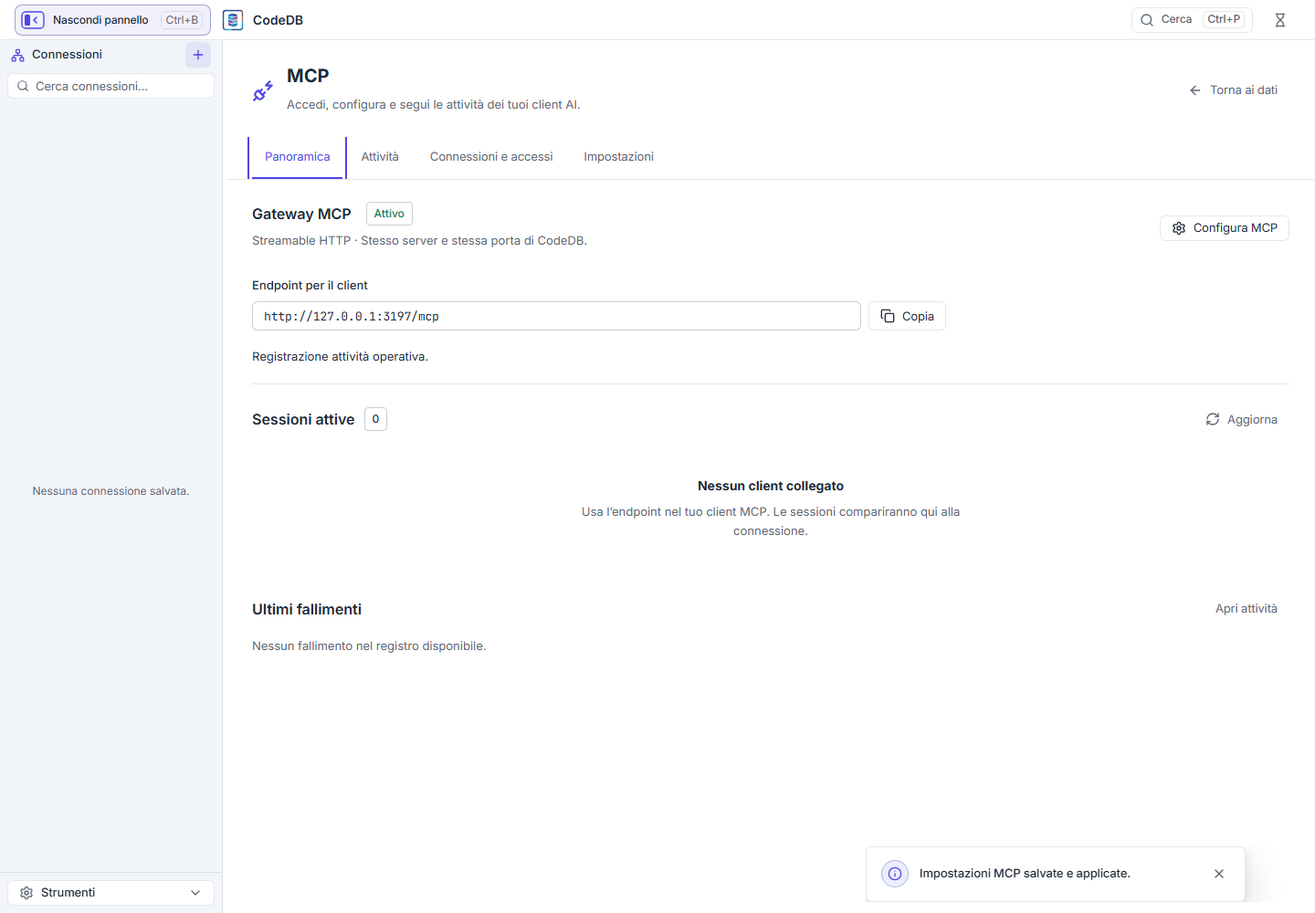
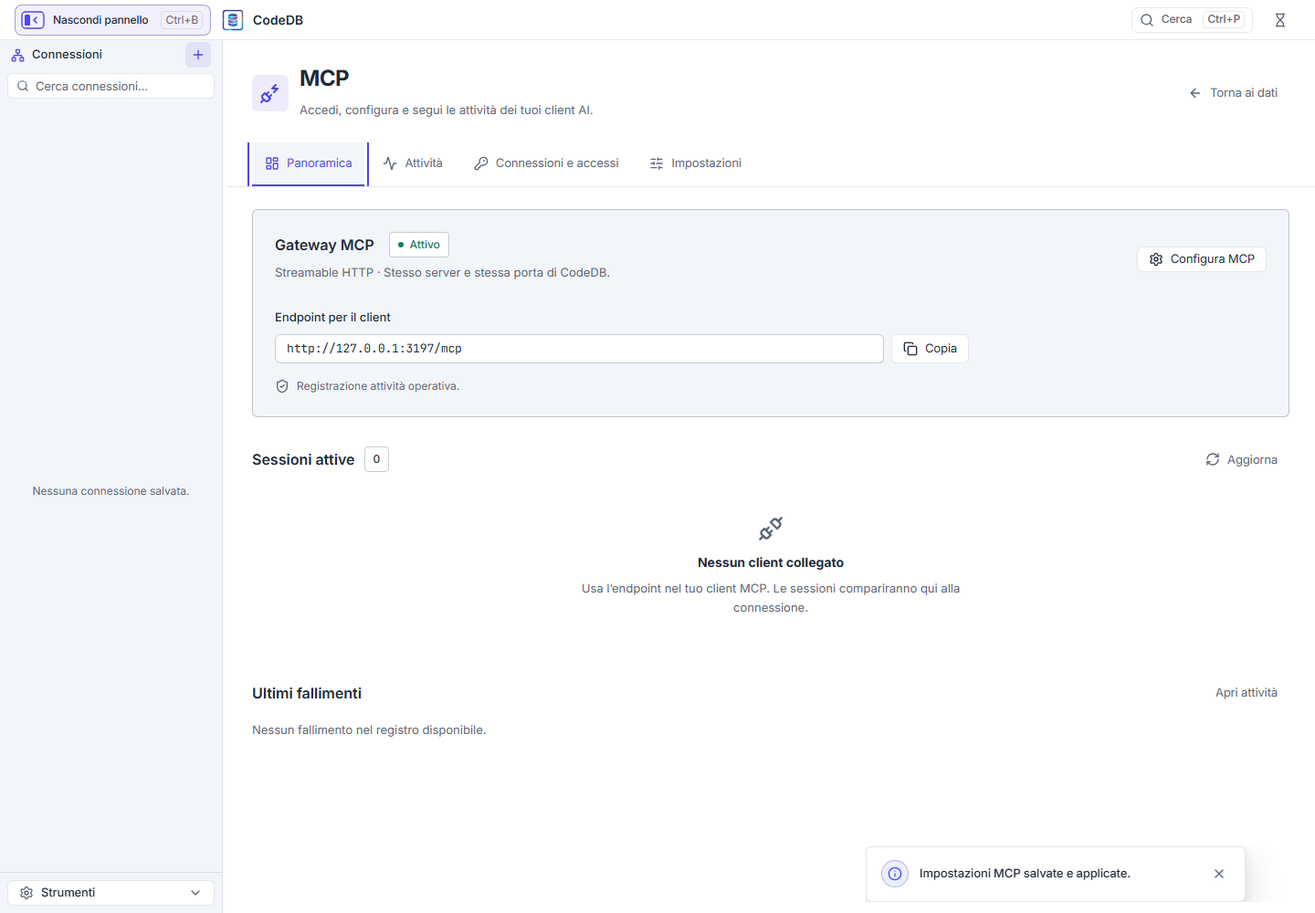
Rifinisce interfaccia MCP, stati e navigazione responsive

diff --git a/public/js/mcp-panel.js b/public/js/mcp-panel.js
@@ -44,7 +44,7 @@ const client = value => typeof value === 'object' && value ? [value.name, value.
 const pretty = value => typeof value === 'string' ? value : JSON.stringify(value, null, 2) ?? 'Non disponibile';
 const permissionsText = value => Object.entries({ read: 'lettura', write: 'scrittura', ddl: 'modifiche alla struttura' }).filter(([key]) => value[key]).map(([,label]) => label).join(', ') || 'nessuna operazione consentita';
 const labelStatus = value => STATI[value] || value || STATI.unknown;
-const badge = value => `<span class="mcp-status mcp-status-${esc(Object.hasOwn(STATI, value) ? value : 'unknown')}">${esc(labelStatus(value))}</span>`;
+const badge = value => `<span class="mcp-status mcp-status-${esc(Object.hasOwn(STATI, value) ? value : 'unknown')}"><span class="mcp-status-dot" aria-hidden="true"></span>${esc(labelStatus(value))}</span>`;
 function paint(node = panel) { mountArcControls(node); refreshLucideIcons(node); }
 function error(err) { q('#mcp-message').textContent = err?.message || String(err); q('#mcp-message').hidden = false; }
 function clearError() { q('#mcp-message').hidden = true; q('#mcp-message').textContent = ''; }
@@ -63,12 +63,13 @@ export function initMcpPanel() {
   panel.id = 'mcp-panel'; panel.hidden = true; panel.setAttribute('aria-labelledby', 'mcp-title');
   panel.innerHTML = `
     <header class="mcp-header"><div class="mcp-heading"><i data-lucide="plug-zap" aria-hidden="true"></i><div><h1 id="mcp-title" tabindex="-1">MCP</h1><p>Accedi, configura e segui le attività dei tuoi client AI.</p></div></div><button type="button" data-action="close" class="ghost"><i data-lucide="arrow-left"></i> Torna ai dati</button></header>
-    <nav class="mcp-tabs" role="tablist" aria-label="Sezioni MCP">${[['overview','Panoramica'],['activity','Attività'],['access','Connessioni e accessi'],['settings','Impostazioni']].map(([id,label])=>`<button type="button" id="mcp-tab-${id}" role="tab" aria-controls="mcp-pane-${id}" aria-selected="${id === pane}" tabindex="${id === pane ? 0 : -1}" data-pane="${id}">${label}</button>`).join('')}</nav>
+    <nav class="mcp-tabs" role="tablist" aria-label="Sezioni MCP">${[['overview','Panoramica','layout-dashboard'],['activity','Attività','activity'],['access','Connessioni e accessi','key-round'],['settings','Impostazioni','sliders-horizontal']].map(([id,label,icon])=>`<button type="button" id="mcp-tab-${id}" role="tab" aria-controls="mcp-pane-${id}" aria-selected="${id === pane}" tabindex="${id === pane ? 0 : -1}" data-pane="${id}"><i data-lucide="${icon}" aria-hidden="true"></i>${label}</button>`).join('')}</nav>
     <div id="mcp-message" class="mcp-message" role="alert" hidden></div>
     <p id="mcp-operation-status" class="mcp-operation-status" role="status" hidden>Operazione in corso…</p>
     <div class="mcp-content">
       <section id="mcp-pane-overview" role="tabpanel" aria-labelledby="mcp-tab-overview"><div id="mcp-overview-content" class="mcp-section-body"></div></section>
       <section id="mcp-pane-activity" role="tabpanel" aria-labelledby="mcp-tab-activity" hidden>
+        <div class="mcp-activity-heading"><div><h2>Registro attività</h2><p class="mcp-muted">Ogni richiesta, dal primo contatto all’esito.</p></div><span id="mcp-live-state" class="mcp-live-state"><span class="mcp-status-dot" aria-hidden="true"></span>Aggiornamento attivo</span></div>
         <form id="mcp-filters" class="mcp-filters">
           <label class="mcp-search">Cerca<input name="search" type="search" placeholder="Azione, bersaglio, dettaglio…" autocomplete="off"></label>
           <label>Dal giorno<input id="mcp-filter-from" name="from" type="date" class="arc-inline-date-model"></label><label>Al giorno<input id="mcp-filter-to" name="to" type="date" class="arc-inline-date-model"></label>
@@ -77,7 +78,7 @@ export function initMcpPanel() {
           <label>Tool<input name="tool" placeholder="Es. execute_query" autocomplete="off"></label><label>Connessione<input name="connection" autocomplete="off"></label><label>Database<input name="db" autocomplete="off"></label><label>Autore<input name="user" autocomplete="off"></label>
           <label>Categoria<select name="category"><option value="">Tutte</option>${Object.entries(CATEGORIE).map(([v,t])=>`<option value="${v}">${t}</option>`).join('')}</select></label></div></details>
         </form>
-        <div class="mcp-activity-toolbar"><div><button type="button" data-action="errors">Fallimenti</button><button type="button" data-action="writes">Scritture</button><button type="button" data-action="reset-filters" class="ghost">Azzera filtri</button></div><div><button type="button" data-action="live" aria-pressed="true"><i data-lucide="pause"></i> Pausa aggiornamenti</button><button type="button" data-action="refresh-activity" aria-label="Aggiorna attività"><i data-lucide="refresh-cw"></i></button><button type="button" data-action="export-json">JSON</button><button type="button" data-action="export-csv">CSV</button></div></div>
+        <div class="mcp-activity-toolbar"><div><button type="button" data-action="errors" aria-pressed="false"><i data-lucide="circle-alert" aria-hidden="true"></i>Fallimenti</button><button type="button" data-action="writes" aria-pressed="false"><i data-lucide="pencil-line" aria-hidden="true"></i>Scritture</button><button type="button" data-action="reset-filters" class="ghost">Azzera filtri</button></div><div><button type="button" data-action="live" aria-pressed="true"><i data-lucide="pause"></i> Pausa aggiornamenti</button><button type="button" data-action="refresh-activity" aria-label="Aggiorna attività"><i data-lucide="refresh-cw"></i></button><button type="button" data-action="export-json" aria-label="Esporta attività in JSON">JSON</button><button type="button" data-action="export-csv" aria-label="Esporta attività in CSV">CSV</button></div></div>
         <button type="button" id="mcp-new-activity" data-action="refresh-activity" class="mcp-new-activity" hidden>Nuove attività disponibili · Aggiorna elenco</button>
         <p id="mcp-activity-note" class="mcp-muted" role="status"></p>
         <div class="mcp-activity-layout"><div class="mcp-activity-list" id="mcp-activity-list" aria-label="Elenco attività"></div><aside id="mcp-detail" class="mcp-detail" aria-label="Dettaglio attività" hidden></aside></div>
@@ -148,11 +149,11 @@ function renderOverview() {
   const names = { active: 'Attivo', draining: 'Disattivazione in corso', disabled: 'Disattivato' };
   const sessions = status.sessions || [];
   q('#mcp-overview-content').innerHTML = `
-    <div class="mcp-service-line"><div><h2>Gateway MCP <span class="mcp-service-state" data-state="${esc(status.state)}">${esc(names[status.state] || 'Non disponibile')}</span></h2><p class="mcp-muted">${status.state === 'draining' ? 'Le operazioni avviate stanno terminando. Le nuove richieste sono sospese.' : 'Streamable HTTP · Stesso server e stessa porta di CodeDB.'}</p></div><button type="button" data-pane="settings"><i data-lucide="settings"></i> Configura MCP</button></div>
+    <div class="mcp-service-surface"><div class="mcp-service-line"><div><h2>Gateway MCP <span class="mcp-service-state" data-state="${esc(status.state)}"><span class="mcp-status-dot" aria-hidden="true"></span>${esc(names[status.state] || 'Non disponibile')}</span></h2><p class="mcp-muted">${status.state === 'draining' ? 'Le operazioni avviate stanno terminando. Le nuove richieste sono sospese.' : 'Streamable HTTP · Stesso server e stessa porta di CodeDB.'}</p></div><button type="button" data-pane="settings"><i data-lucide="settings"></i> Configura MCP</button></div>
     <div class="mcp-endpoint"><label for="mcp-endpoint-value">Endpoint per il client</label><div><input type="text" readonly id="mcp-endpoint-value" value="${esc(endpoint())}"><button type="button" data-action="copy-endpoint"><i data-lucide="copy"></i> Copia</button></div></div>
-    <p class="mcp-audit-health ${status.auditHealth?.ok === false ? 'mcp-danger' : ''}">${status.auditHealth?.ok === false ? `Registrazione attività non disponibile: ${esc(status.auditHealth.lastError || 'errore di scrittura del registro')}. Lo storico può essere incompleto.` : 'Registrazione attività operativa.'} ${status.auditHealth?.pending ? `${Number(status.auditHealth.pending)} eventi in salvataggio.` : ''}</p>
+    <p class="mcp-audit-health ${status.auditHealth?.ok === false ? 'mcp-danger' : ''}"><i data-lucide="${status.auditHealth?.ok === false ? 'shield-alert' : 'shield-check'}" aria-hidden="true"></i><span>${status.auditHealth?.ok === false ? `Registrazione attività non disponibile: ${esc(status.auditHealth.lastError || 'errore di scrittura del registro')}. Lo storico può essere incompleto.` : 'Registrazione attività operativa.'} ${status.auditHealth?.pending ? `${Number(status.auditHealth.pending)} eventi in salvataggio.` : ''}</span></p></div>
     <div class="mcp-section-title"><h2>Sessioni attive <span class="mcp-count">${sessions.length}</span></h2><button type="button" data-action="refresh-status" class="ghost"><i data-lucide="refresh-cw"></i> Aggiorna</button></div>
-    ${sessions.length ? `<div class="mcp-session-list">${sessions.map(s=>`<article class="mcp-session"><div><strong>${esc(client(s.client))}</strong><p>${esc(s.user || 'Utente locale')} · ${Number(s.activeRequests || 0)} operazioni in corso</p><p class="mcp-muted">${esc((s.connections || []).map(c=>`${c.name}${c.dbType ? ` (${c.dbType})` : ''}`).join(', ') || 'Nessuna connessione DB aperta')}</p><p class="mcp-muted">Ultima attività: ${esc(date(s.lastActivity))}</p><code title="Identificativo sessione">${esc(s.id)}</code></div>${s.canClose === false ? '' : `<button type="button" data-action="close-session" data-id="${esc(s.id)}">Chiudi sessione</button>`}</article>`).join('')}</div>` : '<div class="mcp-empty"><h3>Nessun client collegato</h3><p>Usa l’endpoint nel tuo client MCP. Le sessioni compariranno qui alla connessione.</p></div>'}
+    ${sessions.length ? `<div class="mcp-session-list">${sessions.map(s=>`<article class="mcp-session"><span class="mcp-session-icon" aria-hidden="true"><i data-lucide="terminal"></i></span><div><strong>${esc(client(s.client))}</strong><p>${esc(s.user || 'Utente locale')} · ${Number(s.activeRequests || 0)} operazioni in corso</p><p class="mcp-muted">${esc((s.connections || []).map(c=>`${c.name}${c.dbType ? ` (${c.dbType})` : ''}`).join(', ') || 'Nessuna connessione DB aperta')}</p><p class="mcp-muted">Ultima attività: ${esc(date(s.lastActivity))}</p><code title="Identificativo sessione">${esc(s.id)}</code></div>${s.canClose === false ? '' : `<button type="button" data-action="close-session" data-id="${esc(s.id)}" class="ghost">Chiudi sessione</button>`}</article>`).join('')}</div>` : '<div class="mcp-empty"><i data-lucide="unplug" aria-hidden="true"></i><h3>Nessun client collegato</h3><p>Usa l’endpoint nel tuo client MCP. Le sessioni compariranno qui alla connessione.</p></div>'}
     <div class="mcp-section-title"><h2>Ultimi fallimenti</h2><button type="button" data-action="overview-errors" class="ghost">Apri attività</button></div><div id="mcp-recent-errors"><p class="mcp-muted">Caricamento…</p></div>`;
   paint(q('#mcp-overview-content'));
   loadRecentErrors();
@@ -171,6 +172,7 @@ async function selectPane(name) {
   if (!['overview','activity','access','settings'].includes(name)) return;
   if (creatingKey) { error('Attendi il completamento della creazione: la nuova chiave viene mostrata una sola volta.'); return; }
   if (name !== 'access') resetSecret();
+  if (pane !== name) q('.mcp-content').scrollTop = 0;
   pane = name; clearError();
   panel.querySelectorAll('[role="tab"]').forEach(t => { t.setAttribute('aria-selected', String(t.dataset.pane === name)); t.tabIndex = t.dataset.pane === name ? 0 : -1; });
   panel.querySelectorAll('[role="tabpanel"]').forEach(p => { p.hidden = p.id !== `mcp-pane-${name}`; });
@@ -205,6 +207,9 @@ async function loadActivity(reset = false) {
   finally { if (seq === requestSequence) q('#mcp-activity-list').setAttribute('aria-busy', 'false'); }
 }
 function renderActivity() {
+  const current = filters();
+  q('[data-action="errors"]').setAttribute('aria-pressed', String(current.status === 'failed'));
+  q('[data-action="writes"]').setAttribute('aria-pressed', String(current.category === 'write'));
   q('#mcp-activity-list').innerHTML = activity.entries.length ? `<table class="mcp-table"><thead><tr><th>Ora / Azione</th><th>Bersaglio</th><th>Autore / Client</th><th>Durata</th><th>Esito</th></tr></thead><tbody>${activity.entries.map(e=>`<tr${e.id === selectedId ? ' class="selected"' : ''}><td><button type="button" class="mcp-row-open" data-action="detail" data-id="${esc(e.id)}" aria-label="Dettaglio ${esc(e.tool || 'attività')} del ${esc(date(e.ts))}"><span class="mcp-muted">${esc(date(e.ts))}</span><strong>${esc(e.tool || e.summary || 'Attività MCP')}</strong></button></td><td>${esc(e.connection || '—')}<span class="mcp-subline">${esc([e.db,e.coll].filter(Boolean).join(' › '))}</span></td><td>${esc(e.user || 'Non attribuito')}<span class="mcp-subline">${esc(client(e.client))}</span></td><td class="mcp-duration">${e.durationMs == null ? '—' : `${Number(e.durationMs).toLocaleString('it-IT')} ms`}</td><td>${badge(e.status)}</td></tr>`).join('')}</tbody></table>` : '<div class="mcp-empty"><i data-lucide="list-filter" aria-hidden="true"></i><h3>Nessuna attività con questi filtri</h3><p>Modifica i filtri oppure esegui un’operazione dal tuo client MCP.</p></div>';
   q('#mcp-page-info').textContent = activity.total ? `${activity.offset + 1}–${activity.offset + activity.entries.length} di ${activity.total}` : 'Nessuna attività';
   q('[data-action="prev"]').disabled = activity.offset === 0;
@@ -214,6 +219,7 @@ function renderActivity() {
 }
 async function openDetail(id) {
   const seq = ++detailSequence, token = generation; selectedId = id;
+  panel.querySelectorAll('.mcp-activity-list tr').forEach(row => row.classList.toggle('selected', row.querySelector('[data-action="detail"]')?.dataset.id === id));
   detailScrollTop = q('.mcp-content').scrollTop;
   const aside = q('#mcp-detail'); aside.hidden = false; aside.innerHTML = '<p class="mcp-empty" role="status">Caricamento dettaglio…</p>';
   q('.mcp-activity-layout').classList.add('has-detail');
@@ -228,7 +234,7 @@ async function openDetail(id) {
     paint(aside); aside.querySelector('h2').focus();
   } catch (err) { if (seq === detailSequence && token === generation) { aside.innerHTML = `<button type="button" data-action="close-detail">Torna all’elenco</button><p role="alert">${esc(err.message)}</p>`; paint(aside); } }
 }
-function closeDetail(focus = true) { detailSequence++; q('#mcp-detail').hidden = true; q('.mcp-activity-layout').classList.remove('has-detail'); if (focus && selectedId) { panel.querySelector(`[data-action="detail"][data-id="${CSS.escape(selectedId)}"]`)?.focus({ preventScroll: true }); q('.mcp-content').scrollTop = detailScrollTop; } selectedId = null; }
+function closeDetail(focus = true) { detailSequence++; q('#mcp-detail').hidden = true; q('.mcp-activity-layout').classList.remove('has-detail'); panel.querySelectorAll('.mcp-activity-list tr.selected').forEach(row => row.classList.remove('selected')); if (focus && selectedId) { panel.querySelector(`[data-action="detail"][data-id="${CSS.escape(selectedId)}"]`)?.focus({ preventScroll: true }); q('.mcp-content').scrollTop = detailScrollTop; } selectedId = null; }
 
 async function loadSettings() {
   const token = generation;
@@ -236,14 +242,14 @@ async function loadSettings() {
   if (token !== generation || !visible()) return;
   settings = res; dirty = false;
   const canManage = !!status?.permissions?.manageSettings;
+  const saveBar = '<div class="mcp-settings-footer"><span id="mcp-dirty" role="status">Impostazioni salvate</span><div><button type="button" data-action="discard-settings" disabled>Scarta modifiche</button><button type="submit" class="primary" id="mcp-save-settings" disabled>Salva impostazioni</button></div></div>';
   q('#mcp-settings-content').innerHTML = `<div class="mcp-section-title"><div><h2>Impostazioni del gateway</h2><p class="mcp-muted">Configurazione persistente dell’installazione. I cambiamenti salvati si applicano al servizio.</p></div></div>${canManage ? '' : '<p class="mcp-notice">Puoi consultare la configurazione. Le modifiche sono riservate all’amministratore dell’installazione.</p>'}
-    <form id="mcp-settings-form">${CAMPI.map(([title, fields])=>`<fieldset class="mcp-settings-group"><legend>${title}</legend>${fields.map(([key,label,hint,type,min,max])=>{ const override = res.overrides?.[key]; const value = res.values[key]; return `<div class="mcp-setting-row"><div><label for="mcp-setting-${key}">${label}</label><p id="mcp-hint-${key}">${hint}${override ? ` <strong>Imposto da ${esc(override)}.</strong>` : ''}</p></div><input id="mcp-setting-${key}" name="${key}" type="${type === 'boolean' ? 'checkbox' : 'number'}" ${type === 'boolean' ? (value ? 'checked' : '') : `value="${esc(String(value))}" min="${min}" max="${max}" step="1" required`} aria-describedby="mcp-hint-${key}" ${!canManage || override ? 'disabled' : ''}></div>`; }).join('')}</fieldset>`).join('')}
-    <div class="mcp-settings-footer"><span id="mcp-dirty" role="status">Impostazioni salvate</span><div><button type="button" data-action="discard-settings" disabled>Scarta modifiche</button><button type="submit" class="primary" id="mcp-save-settings" disabled>Salva impostazioni</button></div></div></form>`;
+    <form id="mcp-settings-form">${saveBar}${CAMPI.map(([title, fields])=>`<fieldset class="mcp-settings-group"><legend>${title}</legend>${fields.map(([key,label,hint,type,min,max])=>{ const override = res.overrides?.[key]; const value = res.values[key]; return `<div class="mcp-setting-row"><div><label for="mcp-setting-${key}">${label}</label><p id="mcp-hint-${key}">${hint}${override ? ` <strong>Imposto da ${esc(override)}.</strong>` : ''}</p></div><input id="mcp-setting-${key}" name="${key}" type="${type === 'boolean' ? 'checkbox' : 'number'}" ${type === 'boolean' ? (value ? 'checked' : '') : `value="${esc(String(value))}" min="${min}" max="${max}" step="1" required`} aria-describedby="mcp-hint-${key}" ${!canManage || override ? 'disabled' : ''}></div>`; }).join('')}</fieldset>`).join('')}</form>`;
   paint(q('#mcp-settings-content'));
   if (res.applied === false) error(res.applyError || 'Impostazioni salvate, ma non applicate completamente al servizio.');
 }
 function readSettings() { return Object.fromEntries(CAMPI.flatMap(([,fields])=>fields.map(([key,,,type])=>[key,type === 'boolean' ? q(`#mcp-setting-${key}`).checked : Number(q(`#mcp-setting-${key}`).value)]))); }
-function updateDirty() { if (!settings) return; const current = readSettings(); dirty = Object.keys(current).some(k => current[k] !== settings.values[k]); q('#mcp-dirty').textContent = dirty ? 'Modifiche non salvate' : 'Impostazioni salvate'; q('#mcp-save-settings').disabled = !dirty || busy; q('[data-action="discard-settings"]').disabled = !dirty || busy; }
+function updateDirty() { if (!settings) return; const current = readSettings(); dirty = Object.keys(current).some(k => current[k] !== settings.values[k]); q('.mcp-settings-footer').dataset.dirty = String(dirty); q('#mcp-dirty').textContent = dirty ? 'Modifiche non salvate' : 'Impostazioni salvate'; q('#mcp-save-settings').disabled = !dirty || busy; q('[data-action="discard-settings"]').disabled = !dirty || busy; }
 
 async function loadAccess() {
   const token = generation;
@@ -293,7 +299,7 @@ function onClick(e) {
   if (name === 'close-detail') { closeDetail(); return; }
   if (name === 'detail') { openDetail(button.dataset.id); return; }
   if (name === 'refresh-activity') { loadActivity(true); return; }
-  if (name === 'live') { paused = !paused; button.setAttribute('aria-pressed', String(!paused)); button.innerHTML = `<i data-lucide="${paused ? 'play' : 'pause'}"></i> ${paused ? 'Riprendi aggiornamenti' : 'Pausa aggiornamenti'}`; refreshLucideIcons(button); return; }
+  if (name === 'live') { paused = !paused; button.setAttribute('aria-pressed', String(!paused)); button.innerHTML = `<i data-lucide="${paused ? 'play' : 'pause'}"></i> ${paused ? 'Riprendi aggiornamenti' : 'Pausa aggiornamenti'}`; q('#mcp-live-state').dataset.paused = String(paused); q('#mcp-live-state').innerHTML = `<span class="mcp-status-dot" aria-hidden="true"></span>${paused ? 'Aggiornamento in pausa' : 'Aggiornamento attivo'}`; refreshLucideIcons(button); return; }
   if (name === 'prev' || name === 'next') { activity.offset = Math.max(0, activity.offset + (name === 'prev' ? -activity.limit : activity.limit)); loadActivity(); return; }
   if (['errors','writes','reset-filters','overview-errors'].includes(name)) { q('#mcp-filters').reset(); if (name === 'errors' || name === 'overview-errors') q('[name="status"]').value = 'failed'; if (name === 'writes') q('[name="category"]').value = 'write'; if (name === 'overview-errors') selectPane('activity'); else loadActivity(true); return; }
   if (name === 'open-activity') { selectPane('activity').then(()=>openDetail(button.dataset.id)); return; }

diff --git a/public/css/mcp.css b/public/css/mcp.css
@@ -2,41 +2,54 @@
 .main-area.mcp-open > :not(#mcp-panel) { display: none !important; }
 #mcp-panel { display: flex; flex: 1; min-height: 0; min-width: 0; flex-direction: column; background: var(--bg); color: var(--fg); font-size: var(--text-sm, 13px); }
 #mcp-panel[hidden], #mcp-panel [hidden] { display: none !important; }
-#mcp-panel h1 { font-size: 20px; margin: 0; font-weight: 650; }
+#mcp-panel h1 { font-size: 24px; margin: 0; font-weight: 650; letter-spacing: -.025em; }
 #mcp-panel h2 { font-size: 16px; margin: 0; font-weight: 600; }
 #mcp-panel h3 { font-size: 14px; margin: 0 0 8px; }
 #mcp-panel p { margin: 6px 0; line-height: 1.55; }
 #mcp-panel button, #mcp-panel input, #mcp-panel select, #mcp-panel textarea { font: inherit; }
 #mcp-panel button { cursor: pointer; white-space: normal; }
 #mcp-panel button:disabled { cursor: default; }
+#mcp-panel button, #mcp-panel summary { transition: background-color 160ms ease-out, color 160ms ease-out, border-color 160ms ease-out; }
+#mcp-panel button:not(:disabled):hover { border-color: var(--accent-fg); }
+#mcp-panel button:disabled { opacity: .55; }
 #mcp-panel button:focus-visible, #mcp-panel input:focus-visible, #mcp-panel select:focus-visible, #mcp-panel summary:focus-visible { outline: 2px solid var(--accent-fg); outline-offset: 3px; }
 #mcp-panel select { padding: 6px 28px 6px 10px; min-height: 32px; color: var(--fg); background-color: var(--bg-surface); border: 1px solid var(--border-3); border-radius: var(--radius-sm); max-width: 100%; }
 #mcp-panel input[type="checkbox"] { accent-color: var(--accent); width: 18px; height: 18px; flex-shrink: 0; }
 .mcp-header { display: flex; align-items: center; justify-content: space-between; gap: 24px; padding: 24px 28px 20px; height: auto; min-height: 96px; flex-shrink: 0; background: var(--bg); backdrop-filter: none; -webkit-backdrop-filter: none; box-shadow: none; border-bottom: 0; }
 .mcp-heading { display: flex; gap: 12px; align-items: center; }
-.mcp-heading > svg { width: 26px; height: 26px; color: var(--accent-fg); flex: none; }
+.mcp-heading > svg { width: 40px; height: 40px; padding: 8px; box-sizing: border-box; border-radius: var(--radius-md); background: var(--accent-soft); color: var(--accent-fg); flex: none; }
 .mcp-heading p, .mcp-muted { color: var(--fg-dim); }
 .mcp-tabs { display: flex; gap: 6px; padding: 0 28px; border-bottom: 1px solid var(--border); flex-shrink: 0; overflow: auto; }
-#mcp-panel .mcp-tabs button { border-radius: 0; padding: 12px 14px; background: transparent; border: 0; border-bottom: 2px solid transparent; box-shadow: none; white-space: nowrap; color: var(--fg-dim); }
+#mcp-panel .mcp-tabs button { display: inline-flex; gap: 8px; align-items: center; min-height: 48px; border-radius: 0; padding: 12px 14px; background: transparent; border: 0; border-bottom: 2px solid transparent; box-shadow: none; white-space: nowrap; color: var(--fg-dim); }
+#mcp-panel .mcp-tabs button:hover { color: var(--fg); background: var(--bg-2); }
+.mcp-tabs svg { width: 16px; height: 16px; }
 #mcp-panel .mcp-tabs button[aria-selected="true"] { color: var(--accent-fg); border-bottom-color: var(--accent); }
 .mcp-content { min-height: 0; overflow: auto; flex: 1; }
 .mcp-content > section { min-height: 100%; }
 .mcp-section-body { padding: 24px 28px 36px; max-width: 1280px; }
+.mcp-service-surface { background: var(--bg-2); border: 1px solid var(--border-3); border-radius: var(--radius-md); padding: 24px; }
 .mcp-service-line, .mcp-section-title { display: flex; gap: 20px; align-items: center; justify-content: space-between; }
 .mcp-service-line { padding-bottom: 24px; }
 .mcp-service-line h2 { display: flex; gap: 16px; align-items: center; flex-wrap: wrap; }
-.mcp-service-state, .mcp-count { font-size: 12px; font-weight: 500; padding: 3px 8px; border: 1px solid var(--border-3); border-radius: 4px; }
+.mcp-service-state, .mcp-count { font-size: 12px; font-weight: 500; padding: 4px 9px; border: 1px solid var(--border-3); border-radius: 4px; }
+.mcp-service-state { display: inline-flex; align-items: center; gap: 7px; background: var(--bg); }
+.mcp-status-dot { display: inline-block; width: 6px; height: 6px; flex: none; border-radius: 50%; background: currentColor; }
 .mcp-service-state[data-state="active"] { color: var(--success); }
 .mcp-service-state[data-state="draining"] { color: var(--warning); }
 .mcp-endpoint { max-width: 760px; }
 .mcp-endpoint > label { display: block; margin-bottom: 8px; font-weight: 500; }
 .mcp-endpoint > div { display: flex; gap: 8px; }
 #mcp-panel #mcp-endpoint-value { font-family: var(--font-mono); min-width: 0; flex: 1; }
-#mcp-panel .mcp-audit-health { padding: 12px 0 20px; border-bottom: 1px solid var(--border); }
-.mcp-section-title { margin: 24px 0 16px; }
+#mcp-panel .mcp-audit-health { display: flex; align-items: center; gap: 8px; margin: 16px 0 0; padding: 0; color: var(--fg-dim); font-size: 12px; }
+#mcp-panel .mcp-audit-health.mcp-danger { color: var(--danger); }
+.mcp-audit-health svg { width: 16px; height: 16px; flex: none; }
+.mcp-section-title { margin: 32px 0 16px; }
 .mcp-section-title h2 { display: flex; gap: 10px; align-items: center; }
 .mcp-session-list { display: grid; }
-.mcp-session { display: flex; justify-content: space-between; gap: 24px; padding: 16px 0; border-bottom: 1px solid var(--border); }
+.mcp-session { display: flex; align-items: start; gap: 16px; padding: 20px 0; border-bottom: 1px solid var(--border); }
+.mcp-session > div { flex: 1; }
+.mcp-session-icon { display: grid; place-items: center; width: 36px; height: 36px; border: 1px solid var(--border-3); border-radius: var(--radius-sm); color: var(--fg-dim); flex: none; }
+.mcp-session-icon svg { width: 18px; height: 18px; }
 .mcp-session p { margin: 4px 0; }
 .mcp-session > div { min-width: 0; }
 .mcp-session > button { align-self: center; flex-shrink: 0; }
@@ -45,6 +58,9 @@
 .mcp-empty > svg { width: 28px; height: 28px; margin-bottom: 12px; }
 .mcp-empty h3 { color: var(--fg); }
 .mcp-empty p { max-width: 60ch; margin-inline: auto !important; }
+.mcp-activity-heading { display: flex; align-items: center; justify-content: space-between; gap: 16px; padding: 24px 28px 0; }
+.mcp-live-state { display: inline-flex; align-items: center; gap: 7px; color: var(--fg-dim); font-size: 12px; white-space: nowrap; }
+.mcp-live-state:not([data-paused="true"]) .mcp-status-dot { color: var(--success); }
 #mcp-panel .mcp-error-entry { display: grid; grid-template-columns: 1fr 2fr auto; gap: 16px; width: 100%; padding: 12px 0; background: transparent; border: 0; border-bottom: 1px solid var(--border); text-align: left; }
 .mcp-error-entry span { overflow: hidden; text-overflow: ellipsis; white-space: nowrap; }
 .mcp-error-entry span:nth-child(2) { color: var(--danger); }
@@ -65,22 +81,25 @@
 .mcp-more-filters > div { display: grid; grid-template-columns: repeat(5,minmax(0,1fr)); gap: 12px; padding: 12px 0 4px; }
 .mcp-activity-toolbar { display: flex; align-items: center; justify-content: space-between; gap: 12px; padding: 0 28px 12px; flex-wrap: wrap; }
 .mcp-activity-toolbar > div { display: flex; align-items: center; gap: 6px; flex-wrap: wrap; }
+#mcp-panel .mcp-activity-toolbar [data-action="errors"][aria-pressed="true"], #mcp-panel .mcp-activity-toolbar [data-action="writes"][aria-pressed="true"] { background: var(--accent-soft); border-color: var(--accent-fg); color: var(--accent-fg); }
 #mcp-panel .mcp-new-activity { margin: 0 28px 12px; color: var(--accent-fg); background: var(--accent-soft); }
 #mcp-activity-note { margin: 0 28px 12px !important; font-size: 12px; }
 .mcp-activity-layout { display: grid; grid-template-columns: minmax(0,1fr); border-top: 1px solid var(--border); }
 .mcp-activity-layout.has-detail { grid-template-columns: minmax(0,1fr) minmax(300px,38%); }
 .mcp-activity-list { min-width: 0; overflow: auto; }
 .mcp-table { width: 100%; border-collapse: collapse; font-size: 13px; }
-.mcp-table th { background: var(--bg-2); text-align: left; color: var(--fg-dim); font-weight: 500; white-space: nowrap; padding: 10px 14px; }
+.mcp-table th { background: var(--bg-2); text-align: left; color: var(--fg-dim); font-weight: 600; white-space: nowrap; padding: 12px 14px; }
 .mcp-table td { padding: 12px 14px; border-bottom: 1px solid var(--border); vertical-align: middle; overflow-wrap: anywhere; }
-.mcp-table tbody tr:hover, .mcp-table tbody tr.selected { background: var(--accent-soft); }
+.mcp-table tbody tr:hover { background: var(--bg-2); }
+.mcp-table tbody tr.selected { background: var(--accent-soft); }
+.mcp-table tbody tr.selected .mcp-row-open strong { color: var(--accent-fg); }
 .mcp-table th:first-child, .mcp-table td:first-child { padding-left: 28px; }
 .mcp-subline { display: block; margin-top: 5px; font-size: 12px; color: var(--fg-dim); }
 .mcp-duration { font-variant-numeric: tabular-nums; white-space: nowrap; }
 #mcp-panel .mcp-row-open { display: flex; flex-direction: column; align-items: start; gap: 5px; background: transparent; border: 0; box-shadow: none; height: auto; padding: 0; text-align: left; width: 100%; min-width: 150px; }
 .mcp-row-open strong { font-family: var(--font-mono); font-size: 12px; color: var(--fg); }
 .mcp-row-open .mcp-muted { font-size: 11px; }
-.mcp-status { display: inline-block; font-size: 12px; line-height: 1.4; padding: 3px 7px; border-radius: 4px; border: 1px solid var(--border-3); }
+.mcp-status { display: inline-flex; align-items: center; gap: 7px; font-size: 12px; line-height: 1.4; padding: 4px 8px; border-radius: 4px; border: 1px solid var(--border-3); }
 .mcp-status-completed { color: var(--success); }
 .mcp-status-failed, .mcp-status-partial { color: var(--danger); }
 .mcp-status-rejected, .mcp-status-pending, .mcp-status-rolled_back { color: var(--warning); }
@@ -94,24 +113,28 @@
 .mcp-metadata dd { margin: 0; overflow-wrap: anywhere; }
 .mcp-detail details { border-top: 1px solid var(--border); padding-top: 12px; margin-top: 16px; }
 .mcp-detail summary { cursor: pointer; font-weight: 600; }
-.mcp-detail pre { white-space: pre-wrap; overflow-wrap: anywhere; font-family: var(--font-mono); font-size: 12px; line-height: 1.6; max-height: 360px; overflow: auto; }
+.mcp-detail pre { white-space: pre-wrap; overflow-wrap: anywhere; font-family: var(--font-mono); font-size: 12px; line-height: 1.6; max-height: 360px; overflow: auto; padding: 12px; border-radius: var(--radius-sm); background: var(--bg-2); }
 .mcp-detail .mcp-message { margin: 16px 0; }
 .mcp-pager { display: flex; align-items: center; justify-content: end; gap: 10px; padding: 16px 28px; flex-wrap: wrap; }
 .mcp-pager > span { margin-right: auto; color: var(--fg-dim); }
 .mcp-pager label { display: flex; gap: 8px; align-items: center; }
-.mcp-settings-group { border: 0; padding: 0; margin: 28px 0 0; min-width: 0; }
-.mcp-settings-group legend { padding: 0 0 12px; font-size: 15px; font-weight: 600; }
+.mcp-settings-group { border: 1px solid var(--border); border-radius: var(--radius-md); padding: 0 20px 4px; margin: 28px 0 0; min-width: 0; }
+.mcp-settings-group legend { padding: 0 8px; margin-left: -8px; font-size: 15px; font-weight: 600; }
 .mcp-setting-row { display: grid; grid-template-columns: minmax(0,1fr) 120px; align-items: center; gap: 24px; padding: 16px 0; border-top: 1px solid var(--border); }
+.mcp-setting-row:first-of-type { border-top: 0; }
+.mcp-setting-row:focus-within label { color: var(--accent-fg); }
 .mcp-setting-row label { font-weight: 500; }
 .mcp-setting-row p { color: var(--fg-dim); max-width: 75ch; font-size: 12px; }
 .mcp-setting-row input { justify-self: end; max-width: 120px; width: 100%; }
 .mcp-setting-row > .arc-field-host { justify-self: end; }
 .mcp-setting-row strong { font-weight: 500; display: block; color: var(--fg); overflow-wrap: anywhere; }
-.mcp-settings-footer { display: flex; align-items: center; justify-content: space-between; flex-wrap: wrap; gap: 12px; position: sticky; bottom: -36px; background: var(--bg); border-top: 1px solid var(--border-3); padding: 16px 0; margin-top: 24px; }
+.mcp-settings-footer { display: flex; align-items: center; justify-content: space-between; flex-wrap: wrap; gap: 12px; position: sticky; z-index: 1; top: 0; background: var(--bg); border-bottom: 1px solid var(--border-3); padding: 16px 0; margin-top: 8px; }
+.mcp-settings-footer[data-dirty="true"] #mcp-dirty { color: var(--warning); }
 .mcp-settings-footer > span { color: var(--fg-dim); }
 .mcp-settings-footer > div { display: flex; gap: 8px; }
 .mcp-table-scroll { overflow: auto; }
 #mcp-keys { margin-top: 32px; padding-top: 24px; border-top: 1px solid var(--border); }
+#mcp-connections .mcp-table-scroll { margin-top: 20px; }
 .mcp-key-form { display: grid; grid-template-columns: 1fr 1fr; gap: 16px; margin: 20px 0 28px; }
 .mcp-key-form fieldset { grid-column: 1/-1; border: 0; padding: 0; margin: 0; min-width: 0; }
 .mcp-key-form legend { margin-bottom: 10px; }
@@ -137,6 +160,14 @@
   #mcp-panel .mcp-tabs button { padding: 12px 10px; }
   .mcp-section-body { padding: 20px 16px 28px; }
   .mcp-service-line { align-items: start; gap: 12px; flex-direction: column; }
+  .mcp-service-surface { padding: 16px; }
+  .mcp-service-line h2 { gap: 10px; }
+  .mcp-activity-heading { padding: 20px 16px 0; align-items: start; flex-direction: column; gap: 4px; }
+  #mcp-panel button, #mcp-panel select { min-height: 44px; }
+  #mcp-panel input:not([type="checkbox"]) { min-height: 44px; font-size: 16px; }
+  .mcp-setting-row label { line-height: 1.5; }
+  .mcp-setting-row > div > label { display: inline-flex; align-items: center; min-height: 44px; }
+  .mcp-settings-group { padding-inline: 12px; }
   .mcp-filters { padding: 20px 16px 12px; display: grid; grid-template-columns: 1fr 1fr; }
   .mcp-search, .mcp-more-filters { grid-column: 1/-1; }
   .mcp-filters label:nth-child(4) { grid-column: 1/-1; }
@@ -146,18 +177,24 @@
   #mcp-panel .mcp-new-activity { margin-inline: 16px; }
   .mcp-activity-layout.has-detail { display: block; }
   .mcp-activity-layout.has-detail .mcp-activity-list { display: none; }
-  #mcp-pane-activity:has(.has-detail) > :is(.mcp-filters,.mcp-activity-toolbar,.mcp-new-activity,.mcp-muted,.mcp-pager) { display: none; }
+  #mcp-pane-activity:has(.has-detail) > :is(.mcp-activity-heading,.mcp-filters,.mcp-activity-toolbar,.mcp-new-activity,.mcp-muted,.mcp-pager) { display: none; }
   .mcp-detail { border-left: 0; padding: 16px; }
   .mcp-pager { padding: 16px; gap: 8px; }
   .mcp-pager > span { flex-basis: 100%; }
   .mcp-session { gap: 12px; flex-direction: column; }
+  .mcp-session-icon { display: none; }
   .mcp-session > button { align-self: start; }
   #mcp-panel .mcp-error-entry { grid-template-columns: 1fr; gap: 6px; }
   .mcp-setting-row { grid-template-columns: minmax(0,1fr) 76px; gap: 16px; }
-  .mcp-settings-footer { bottom: -28px; }
+  .mcp-setting-row p { font-size: 13px; }
+  .mcp-settings-footer { gap: 8px; }
+  .mcp-settings-footer > div { flex-wrap: wrap; }
   .mcp-setting-row input { max-width: 76px; }
   .mcp-key-form { grid-template-columns: 1fr; }
   .mcp-message { margin-inline: 16px; }
+}
+@media (prefers-reduced-motion: reduce) {
+  #mcp-panel button, #mcp-panel summary { transition: none; }
 }
 @media (prefers-reduced-motion: no-preference) {
   .mcp-detail { animation: mcp-reveal 180ms cubic-bezier(.16,1,.3,1); }

diff --git a/test/e2e-mcp-panel.js b/test/e2e-mcp-panel.js
@@ -26,6 +26,13 @@ async function main() {
     await mcp.callTool({ name: 'connect_database', arguments: { name: 'connessione-di-test-inesistente' } });
     const page = await browser.newPage({ viewport: { width: 1440, height: 1000 }, reducedMotion: 'reduce' });
     const errors = [];
+    if (process.env.MCP_PANEL_SELECTION_MUTANT === '1') await page.route('**/js/mcp-panel.js', async route => {
+      const response = await route.fetch();
+      const source = await response.text();
+      const mutated = source.replace("row.classList.toggle('selected',", "row.classList.toggle('selezione-rotta',");
+      assert.notEqual(source, mutated, 'Il mutante deve rompere la selezione visiva');
+      await route.fulfill({ response, body: mutated });
+    });
     if (process.env.MCP_PANEL_MUTANT === '1') await page.route('**/js/mcp-panel.js', async route => {
       const response = await route.fetch();
       const source = await response.text();
@@ -53,15 +60,18 @@ async function main() {
     assert.match(await page.locator('#mcp-activity-list').innerText(), /list_saved_connections/);
     await page.locator('[data-action="detail"]').first().click();
     await page.locator('#mcp-detail h2').waitFor();
+    assert.equal(await page.locator('.mcp-activity-list tr.selected').count(), 1, 'Il dettaglio deve evidenziare la riga selezionata');
     assert.match(await page.locator('#mcp-detail').innerText(), /Invocazione/);
     await page.screenshot({ path: path.join(output, 'activity-dark-1440.png') });
     await page.locator('[data-action="close-detail"]').click();
+    assert.equal(await page.locator('.mcp-activity-list tr.selected').count(), 0, 'Chiudere il dettaglio rimuove la selezione visiva');
     await page.locator('#mcp-filters [name="search"]').fill('nessun-evento-corrispondente');
     await page.getByText('Nessuna attività con questi filtri').waitFor();
     await page.locator('[data-action="reset-filters"]').click();
     await page.locator('[data-action="detail"]').first().waitFor();
     await page.locator('[data-action="live"]').click();
     assert.equal(await page.locator('[data-action="live"]').getAttribute('aria-pressed'), 'false');
+    assert.match(await page.locator('#mcp-live-state').innerText(), /in pausa/);
     await page.locator('[data-action="live"]').click();
     const download = page.waitForEvent('download');
     await page.locator('[data-action="export-json"]').click();
@@ -74,6 +84,13 @@ async function main() {
     await page.getByText(/CodeDB è in modalità locale/).waitFor();
     await page.locator('#mcp-tab-settings').click();
     await page.locator('#mcp-setting-maxSessions').waitFor();
+    for (const width of [375, 768, 1024, 1440]) {
+      await page.setViewportSize({ width, height: 1000 });
+      assert(await page.evaluate(() => document.documentElement.scrollWidth <= innerWidth + 1), `Impostazioni senza overflow a ${width}px`);
+      await page.locator('#mcp-setting-auditGenerations').scrollIntoViewIfNeeded();
+      const bar = await page.locator('.mcp-settings-footer').boundingBox();
+      assert(bar && bar.y >= 0 && bar.y + bar.height < 1000, `Salvataggio sempre raggiungibile a ${width}px`);
+    }
     await page.locator('#mcp-setting-maxSessions').fill('17');
     assert.equal(await page.locator('#mcp-save-settings').isEnabled(), true);
     await page.locator('#mcp-tab-overview').click();
@@ -119,6 +136,7 @@ async function main() {
       await page.locator('[data-action="close-detail"]').click();
       await page.locator('#mcp-tab-settings').click();
       await page.locator('#mcp-setting-maxSessions').waitFor();
+      assert.equal(await page.locator('.mcp-content').evaluate(el => el.scrollTop), 0, 'Una sezione diversa si apre dall’inizio');
       await page.screenshot({ path: path.join(output, `settings-${theme}-390.png`) });
     }
     await page.setViewportSize({ width: 1440, height: 1000 });
